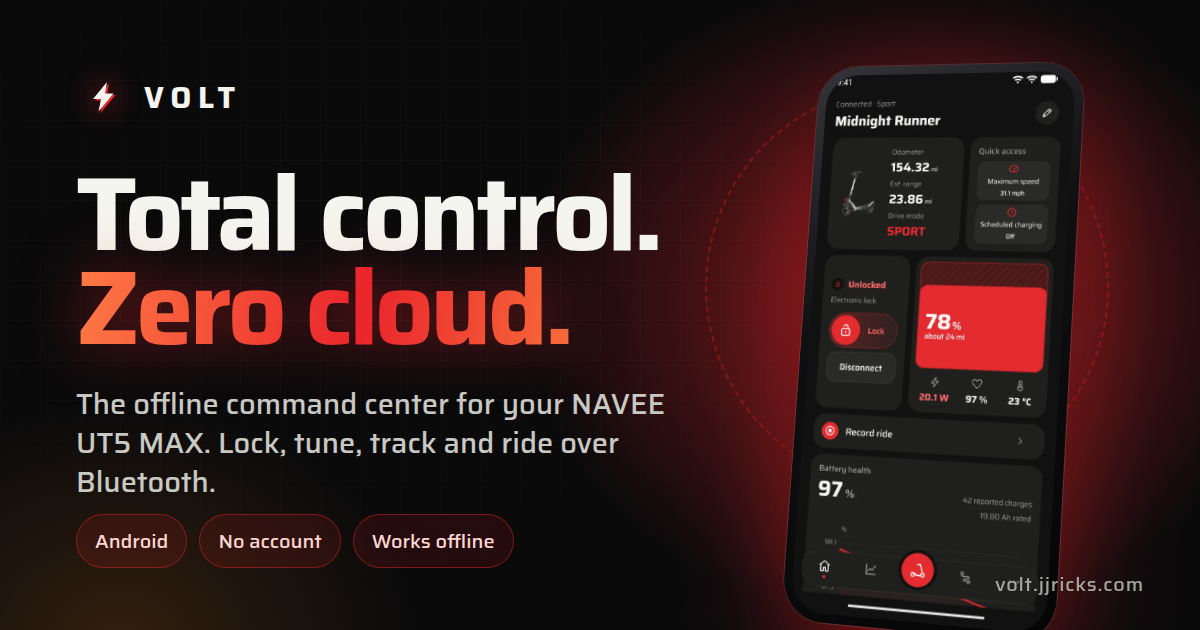
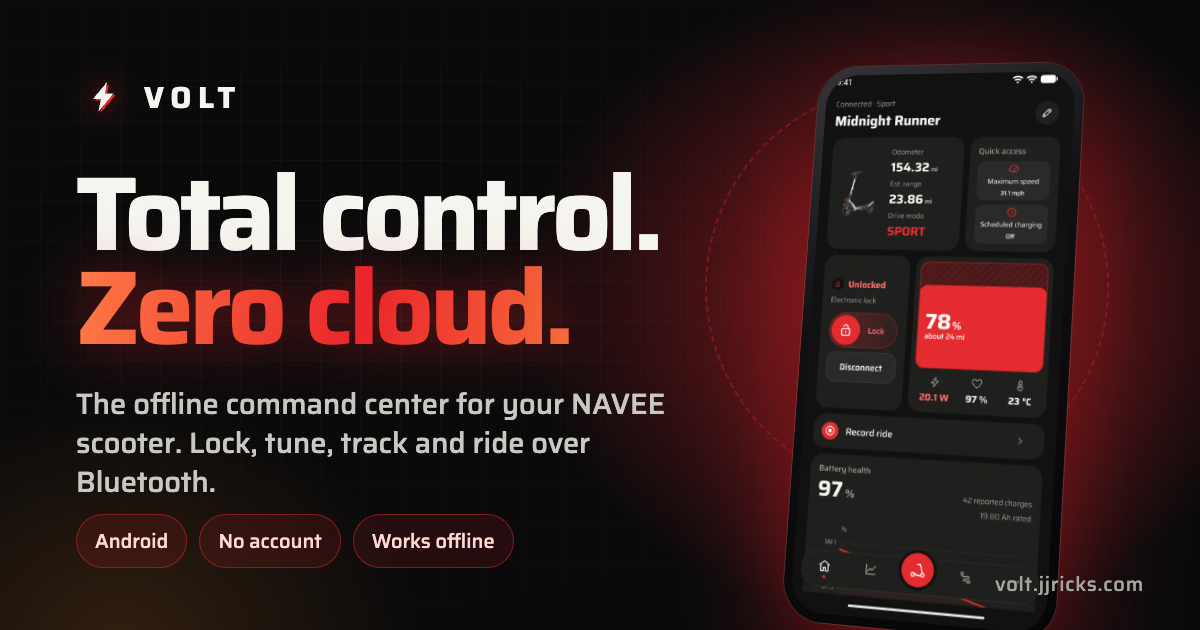
Keep owner-approved privacy and NAVEE website positioning

diff --git a/site/src/index.html b/site/src/index.html
@@ -4,7 +4,7 @@
   <meta charset="utf-8">
   <meta name="viewport" content="width=device-width, initial-scale=1, viewport-fit=cover">
   <title>Volt · Total control. Zero cloud.</title>
-  <meta name="description" content="Volt is the independent, offline companion for your NAVEE UT5 MAX. Lock and unlock, tune your settings, watch live telemetry and record rides over Bluetooth. No account. No servers.">
+  <meta name="description" content="Volt is the independent, offline companion for your NAVEE scooter. Lock and unlock, tune your settings, watch live telemetry and record rides over Bluetooth. No account. Works offline.">
   <meta name="theme-color" content="#0a0a0b">
   <meta name="color-scheme" content="dark">
   <meta name="referrer" content="strict-origin-when-cross-origin">
@@ -14,7 +14,7 @@
   <meta property="og:site_name" content="Volt">
   <meta property="og:url" content="https://volt.jjricks.com/">
   <meta property="og:title" content="Volt · Total control. Zero cloud.">
-  <meta property="og:description" content="The offline command center for your NAVEE UT5 MAX. Lock, tune, track and ride over Bluetooth. No account, no servers.">
+  <meta property="og:description" content="The offline command center for your NAVEE scooter. Lock, tune, track and ride over Bluetooth. No account. Works offline.">
   <meta property="og:image" content="https://volt.jjricks.com/og.png">
   <meta property="og:image:type" content="image/png">
   <meta property="og:image:width" content="1200">
@@ -22,7 +22,7 @@
   <meta property="og:image:alt" content="The Volt app dashboard on a phone beside a glowing red lightning bolt and the words Total control. Zero cloud.">
   <meta name="twitter:card" content="summary_large_image">
   <meta name="twitter:title" content="Volt · Total control. Zero cloud.">
-  <meta name="twitter:description" content="The offline command center for your NAVEE UT5 MAX. Lock, tune, track and ride over Bluetooth. No account, no servers.">
+  <meta name="twitter:description" content="The offline command center for your NAVEE scooter. Lock, tune, track and ride over Bluetooth. No account. Works offline.">
   <meta name="twitter:image" content="https://volt.jjricks.com/og.png">
   <meta name="twitter:image:alt" content="The Volt app dashboard on a phone beside a glowing red lightning bolt.">
 
@@ -58,12 +58,12 @@
   <main id="main">
     <section class="hero" id="top">
       <div class="hero-copy">
-        <a class="pill reveal" href="#compat"><span class="pill-dot"></span> Tested on the US UT5 MAX <span aria-hidden="true">→</span></a>
+        <a class="pill reveal" href="#compat"><span class="pill-dot"></span> Your NAVEE. Your connection. <span aria-hidden="true">→</span></a>
         <h1 class="reveal">
           <span class="line">Total control.</span>
           <span class="line hot" data-text="Zero cloud.">Zero cloud.</span>
         </h1>
-        <p class="lede reveal">Volt is an independent Android app for your NAVEE UT5 MAX. Lock and unlock, change settings, watch live readings and record rides, straight over Bluetooth. <strong>No account. Works offline.</strong></p>
+        <p class="lede reveal">Volt is an independent Android app for your NAVEE scooter. Lock and unlock, change settings, watch live readings and record rides, straight over Bluetooth. <strong>No account. Works offline.</strong></p>
         <div class="hero-actions reveal">
           <a class="btn btn-hot" href="#get">
             <svg viewBox="0 0 24 24" aria-hidden="true"><path d="M12 3v12m0 0-5-5m5 5 5-5M5 21h14"/></svg>
@@ -172,7 +172,8 @@
           <svg viewBox="0 0 120 140"><path class="shield-body" d="M60 6 10 24v38c0 34 22 58 50 70 28-12 50-36 50-70V24z"/><path class="shield-bolt" d="M66 34 44 76h16l-4 32 24-44H64z"/></svg>
         </div>
         <p class="eyebrow">Privacy</p>
-        <h2 id="privacy-title">Your data stays <span class="hot">on your phone.</span></h2>
+        <h2 id="privacy-title" aria-describedby="privacy-note">Nothing leaves <span class="hot">your phone.</span><sup aria-hidden="true">*</sup></h2>
+        <p class="privacy-note" id="privacy-note">* Online basemaps contact a map provider only after your approval. Exports and backups go only where you choose to save or share them.</p>
         <div class="promises">
           <div class="promise"><b>No account</b><span>No sign-up, analytics or ads.</span></div>
           <div class="promise"><b>Direct Bluetooth</b><span>Controls and recording work offline, with no server in the middle.</span></div>
@@ -188,7 +189,7 @@
         <h2 id="setup-title">Three steps to <span class="hot">liftoff.</span></h2>
         <p class="sub">You'll need:</p>
         <ul class="needs" aria-label="You'll need">
-          <li>Android 8.0+ with Bluetooth</li><li>An activated US UT5 MAX</li><li>The NAVEE app, signed in and connecting</li><li>For pairing once: a computer with USB, or Shizuku</li>
+          <li>Android 8.0+ with Bluetooth</li><li>An activated NAVEE scooter</li><li>The NAVEE app, signed in and connecting</li><li>For pairing once: a computer with USB, or Shizuku</li>
         </ul>
       </div>
       <ol class="step-list">
@@ -202,7 +203,7 @@
       <div class="section-head reveal"><p class="eyebrow">Questions</p><h2 id="faq-title">Good to know.</h2></div>
       <div class="faq-list">
         <details class="reveal"><summary>Is Volt made by NAVEE?</summary><p>No. Volt is an independent project and isn't affiliated with NAVEE or its app vendor.</p></details>
-        <details class="reveal" id="compat"><summary>Which scooters does it work with?</summary><p>Volt is tested on the US NAVEE UT5 MAX (model 2538) that you already own and have activated. Other models, regions and firmware aren't verified and may not work.</p></details>
+        <details class="reveal" id="compat"><summary>Which scooters does it work with?</summary><p>Volt is built for NAVEE scooters, with controls tailored to the connected model. Features vary by model and firmware. The US UT5 MAX has been tested on hardware; other mapped models are still being verified.</p></details>
         <details class="reveal"><summary>Does Volt need the internet?</summary><p>No. Locking, controls, readings and ride recording work offline. Map backgrounds are optional and only load after you turn them on.</p></details>
         <details class="reveal"><summary>Is there an iPhone version?</summary><p>Not right now. Volt runs on Android 8.0 and newer, including foldables.</p></details>
         <details class="reveal"><summary>Where is my data stored?</summary><p>On your phone. You can export rides or make a password-protected backup whenever you like.</p></details>
@@ -219,9 +220,9 @@
             <svg viewBox="0 0 24 24" aria-hidden="true"><path d="M12 3v12m0 0-5-5m5 5 5-5M5 21h14"/></svg>
             Get the latest release
           </a>
-          <a class="btn btn-ghost btn-big" href="https://pairscooter.jjricks.com/">
-            <svg viewBox="0 0 24 24" aria-hidden="true"><path d="M5 4h11l3 3v13H5zM9 10h6M9 14h6M9 18h3"/></svg>
-            Setup helper
+          <a class="btn btn-ghost btn-big" href="https://github.com/JJRicks/navee-offline">
+            <svg viewBox="0 0 24 24" aria-hidden="true"><path d="m8 7-5 5 5 5M16 7l5 5-5 5M14 4l-4 16"/></svg>
+            GitHub repository
           </a>
         </div>
         <p class="note">Downloads come from GitHub Releases, with SHA-256 checksums.</p>
@@ -235,7 +236,7 @@
       <span>VOLT</span>
     </div>
     <p>Volt is an independent project and is not affiliated with NAVEE. NAVEE and UT5 MAX are trademarks of their respective owners. Screens show sample data.</p>
-    <p class="footer-links"><a href="https://pairscooter.jjricks.com/">Setup helper</a><a href="#privacy">Privacy</a><a href="THIRD-PARTY-NOTICES.txt">Licenses</a><a href="https://jjricks.com/">Made by JJRicks</a></p>
+    <p class="footer-links"><a href="https://github.com/JJRicks/navee-offline">GitHub</a><a href="https://pairscooter.jjricks.com/">Setup helper</a><a href="#privacy">Privacy</a><a href="THIRD-PARTY-NOTICES.txt">Licenses</a><a href="https://jjricks.com/">Made by JJRicks</a></p>
   </footer>
 </body>
 </html>

diff --git a/site/src/styles.css b/site/src/styles.css
@@ -263,6 +263,8 @@ h2 { margin: 0 0 20px; font-weight: 700; font-size: clamp(38px, 5.6vw, 72px); li
   border: 1px solid rgba(234, 37, 43, .28);
   background: radial-gradient(700px 320px at 50% 0%, rgba(234, 37, 43, .2), transparent 70%), rgba(255, 255, 255, .015);
 }
+.privacy h2 sup { margin-left: .12em; font-size: .4em; vertical-align: super; }
+.privacy-note { max-width: 650px; margin: 20px auto 0; color: var(--muted); font-size: 15px; line-height: 1.6; }
 .shield { width: 100px; margin: 0 auto 22px; filter: drop-shadow(0 0 34px rgba(234, 37, 43, .65)); animation: pulse 3.2s ease-in-out infinite; }
 .shield-body { fill: rgba(234, 37, 43, .12); stroke: var(--red); stroke-width: 3; }
 .shield-bolt { fill: var(--ink); }

diff --git a/site/tools/og.html b/site/tools/og.html
@@ -23,7 +23,7 @@ p{margin:30px 0 0;font-weight:500;font-size:29px;line-height:1.35;color:#c9c9c3}
 <div class="copy">
  <div class="brand"><svg viewBox="0 0 108 108"><path fill="#EA252B" d="M66,27 L38,61 L54,61 L49,86 L79,50 L62,50 Z"/><path fill="#F5F5EF" d="M62,24 L34,58 L50,58 L45,83 L75,47 L58,47 Z"/></svg>VOLT</div>
  <h1>Total control.<span class="hot">Zero cloud.</span></h1>
- <p>The offline command center for your NAVEE UT5 MAX. Lock, tune, track and ride over Bluetooth.</p>
+ <p>The offline command center for your NAVEE scooter. Lock, tune, track and ride over Bluetooth.</p>
 </div>
 <div class="meta"><span>Android</span><span>No account</span><span>Works offline</span></div>
 <div class="ring"></div>

diff --git a/site/README.md b/site/README.md
@@ -33,10 +33,10 @@ Rollback:
 
 Volt is an independent project and must not present itself as NAVEE. Keep the non-affiliation notice in the FAQ and footer, and don't use NAVEE logos or branding. Feature claims should match `README.md` and `FEATURES.txt`.
 
-Keep the page short enough to skim: what Volt does, what it's tested on, download, setup, privacy and a short FAQ. Put details (counts, settings lists, implementation notes) in the repository docs, not on the page.
+Keep the page short enough to skim: what Volt does, model compatibility, download, setup, privacy and a short FAQ. Put details (counts, settings lists, implementation notes) in the repository docs, not on the page.
 
-- Compatibility: say "tested on the US UT5 MAX". Don't imply that other NAVEE models work until they're verified.
-- Source: the repository is private for now, so don't call Volt open source or promise public source code. Don't link to repository files either; they 404 for visitors. Setup links go to the public helper at <https://pairscooter.jjricks.com/>. Revisit when it goes public (`docs/public-release.md`).
-- Privacy: the Bluetooth core works offline; map backgrounds go online only after the user turns them on; exports and backups are deliberate. Don't say "nothing leaves your phone".
+- Compatibility: describe Volt as an app for NAVEE scooters, with features varying by model and firmware. Keep the distinction between hardware-tested UT5 MAX support and other model mappings in the FAQ; don't position Volt as UT5-only or imply that every NAVEE scooter has been tested.
+- Source: keep the GitHub repository link at the owner's request, including while it is private. Don't call Volt open source or promise public source access until the repository is public. Setup links go to <https://pairscooter.jjricks.com/>. Revisit public-source wording when it goes public (`docs/public-release.md`).
+- Privacy: retain the owner's "Nothing leaves your phone" headline with a visible, adjacent asterisk explanation for user-approved online basemaps and deliberately shared exports. The Bluetooth core works offline, basemaps are off by default, and neither exports nor backups are uploaded automatically.
 
 The slide-to-lock demo is decorative (`aria-hidden`). Its knob, glyphs, labels and track tint run on one shared CSS cycle (`--lock-cycle`), started together by `main.js`. With reduced motion or without JavaScript it rests in the unlocked "Slide to lock" state.
